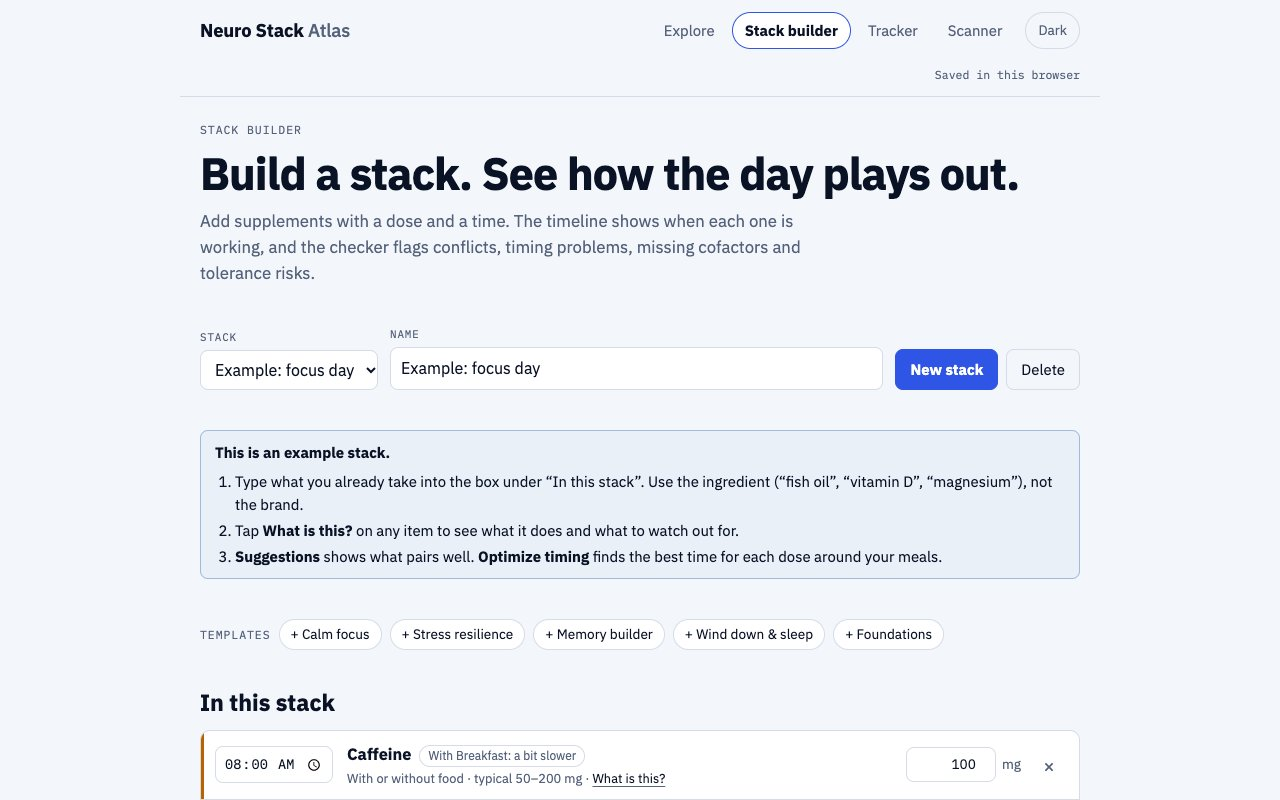
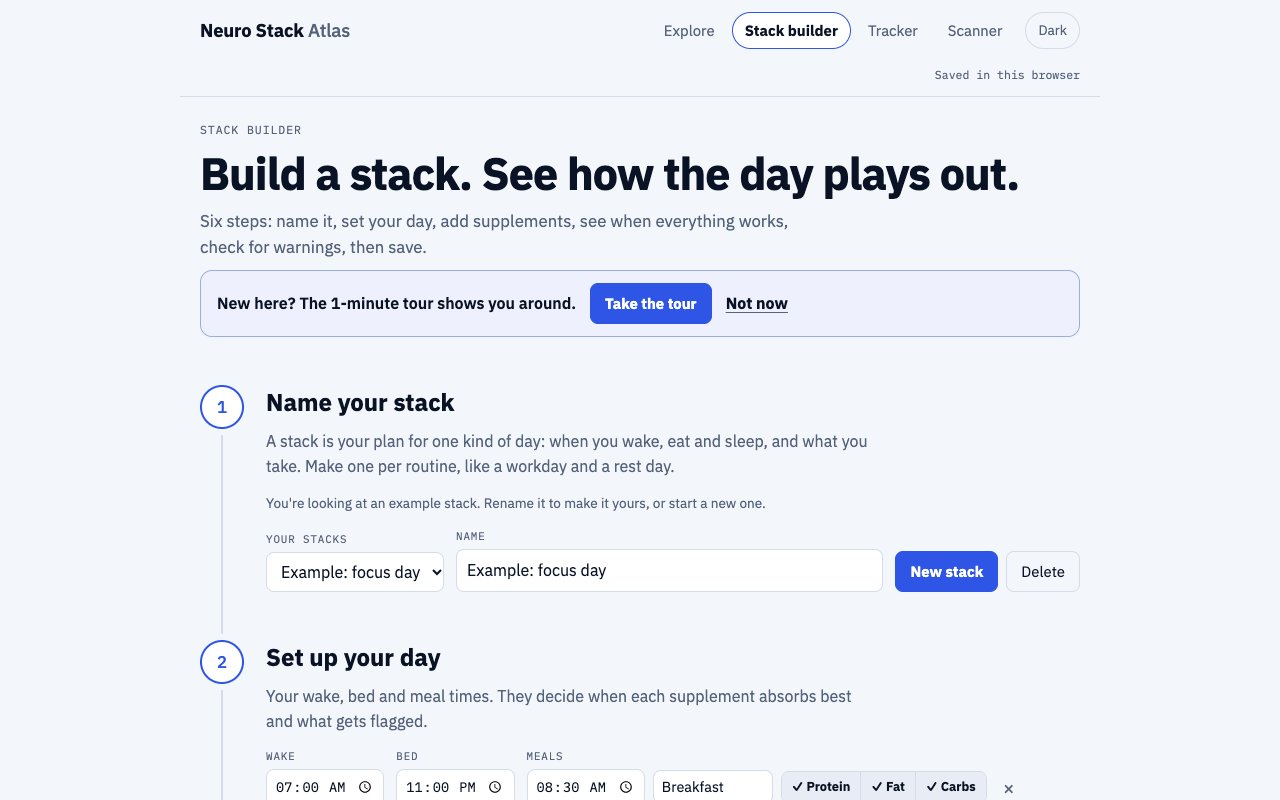
Add handoff notes for the next Claude session; refresh README Stack builder image
HANDOFF.md covers how Eric works, where everything lives, how publishing
works, how the code is organized, the review tools, open threads, and the
DRAFT wording still waiting for review. Not served on the live site.

diff --git a/HANDOFF.md b/HANDOFF.md
@@ -1,0 +1,66 @@
+# Handoff: Neuro Stack Atlas ("Mind" pillar)
+
+For a new Claude instance picking this up. Read this first, then `README.md` and `content/README.md`.
+
+## The person
+- **Eric**, founder. Doesn't write code; directs and reviews. GitHub: `EL9995`.
+- Explain in plain English. After each piece of work: **3–5 bullets** on what changed and how to check it.
+- **Show screenshots before committing.** Nothing gets committed until he approves.
+- **Ask before deleting anything or changing how something looks or behaves.**
+- **Never change scientific content or wording unless asked.** New wording goes in `content/` files and is marked `// DRAFT`; list every new factual claim for his review. Check new claims against the site's own data first (e.g. `content/timing-and-safety.js`).
+- **Desktop first.** Mobile pass comes later.
+- Umbrella vision: **Mind · Body · Food**. This repo is *Mind* (neurotransmitters, nootropics). Other Claude instances are building Supplement Transparency (CoAs, tier list) and Food Recalls/Transparency in parallel.
+
+## Where things are
+- Live site: https://el9995.github.io/neuro-stack-atlas/
+- Repo: https://github.com/EL9995/neuro-stack-atlas (public)
+- Local folder: `~/Documents/neuro-stack-atlas`
+- Run locally: `python3 -m http.server 8003` in the folder, open http://localhost:8003. The original one-file prototype is in `baseline/` (serve that folder on 8001 for before/after).
+- Machine: Python 3.9 and Google Chrome only. **No Node, no Homebrew, no `gh` CLI.** zsh: avoid `echo ====` (zsh treats `=word` specially).
+
+## Publishing
+- Commits are authored `Eric <337937552+EL9995@users.noreply.github.com>` (already set in the repo's git config). End commit messages with the Co-Authored-By line from your system instructions.
+- **Eric pushes from GitHub Desktop ("Push origin").** The command-line git here has no GitHub credentials, so don't try to push.
+- GitHub Pages runs from a **GitHub Actions workflow** (`.github/workflows/pages.yml`) that publishes only the site files (index.html, favicon.svg, og-image.png, css/, js/, content/, food/). `baseline/`, `tools/`, `docs/` and `*.md` are not served. Pages Source must stay set to "GitHub Actions".
+- GitHub Pages caches files for 10 minutes; tell Eric to hard-refresh (Cmd+Shift+R) or use a private window. *Offered, not yet built:* version-stamping asset URLs at deploy time so reviews always see fresh files.
+
+## Current state (as of 2026-10-05)
+- **Two saves are committed but NOT pushed:** "Stack builder: numbered steps, click-through tours, browse by neurotransmitter" and "Stack builder step 6: save after reviewing warnings…". Under them sits a save made by the **Food instance**: "Add food recall check test page at /food/" (adds `food/index.html` and adds `food` to the publish workflow). Pushing publishes all three, including `/food/` going live. Eric was told and decides when to push.
+- **Uncommitted files from the Supplement Transparency instance live in this folder:** `demo/`, `pilot/` (magnesium pilot spreadsheet and data), `tools/pilot_magnesium.py`. Don't commit, move or delete them; ask Eric. Recommendation given: each project in its own repo, plus a hub page (the empty `Eric-Portfolio-` repo could become `EL9995.github.io`).
+- Also uncommitted: this `HANDOFF.md` and an updated `docs/images/stack-builder.jpg`. Commit them when Eric approves.
+
+## How the code is organized
+- Plain static site: `index.html` loads `css/*.css` and then classic `<script>`s in order: `content/*.js` (data and wording), then `js/*.js`. **Everything shares global scope; order in index.html matters.** No build step.
+- `content/`: all data and user-facing wording (supplements, pathways, enzymes, scene captions, landing page, stack builder text, safety tags). `content/README.md` maps "I want to change…" to files.
+- Router: `js/router.js` (hash routes: `""` home, `<nt>`, `<nt>.<supp>`, `<supp>`, `enzyme:<id>`, `stack`, `track`, `scan`). Scroll scenes are started at the end of `render()`, after the top bar has its final size.
+- **Scroll scenes** (sticky stage, scroll position → progress 0–1, SVG world plus HTML labels positioned from world coordinates):
+  - `js/scene-story.js`: home "What are neurotransmitters?" Ends at "The next cell fires" (`NS_END = .785` trims the old animation).
+  - `js/scene-protocol.js`: home "Start smart" (foundation / cycles / recovery).
+  - `js/scene-pathway.js`: the per-neurotransmitter assembly line. `psSetup(nt)` lays out from pathway data. Intro slides (heading, low/high cards) come first. Labels use level-of-detail by zoom. The end is "explore mode": the chain is clickable with info cards. Height is set so every scene scrolls the same distance per caption (`psHeight`).
+  - **Gotcha:** measure the stage *after* setting `--chrome-h` (it resizes the stage), or HTML labels drift off the SVG.
+- `js/pages.js`: neurotransmitter page (scene, then three supplement blocks: Precursors / Cofactors / Modulators) and supplement pages. `js/enzymes.js` + `content/enzymes.js`: 10 enzyme pages (reached from scene info cards).
+- Safety tags (`js/helpers.js`): "Use caution" (tier `caution`, 5 supplements) and "Serious interactions" (any `major` interaction in data), with hover text from `content/tags.js`. "Deep cut" labels were removed.
+- **Stack builder** (`js/builder.js`, `content/stack-builder.js`, `css/builder-steps.css`, `js/tour.js`): six numbered steps: name, day, add (big search, browse by neurotransmitter, templates, items, suggestions), timeline, check, save. Tours are data-driven (`BUILDER_TEXT.tours`). Step 6 needs "I've read the warnings" when the check has serious or to-review items. Any edit clears `savedAt` (sets `wasSaved`). The **Tracker only shows the dose checklist for saved stacks**.
+- **Tracker insights** (`js/tracker-insights.js`): descriptive only, no causal wording. "On days you logged X, you rated Y higher (a vs b)". Needs 10+ logged days (ratings + doses), 3+ days with and without. The low-mood safety message (with 988) must stay word for word.
+- Scanner is frozen (basic paste mode off claude.ai). Account sync is paused (data stays in localStorage).
+
+## Review tooling (`tools/`)
+- `shoot.py <url> <dir>`: the fixed screenshot set at desktop and phone, frozen clock, no cache, fresh port each run. Saves `dom.json` for content diffs.
+- `make_compare.py`: builds `screenshots/compare.html` (before | after | changed pixels). Send Eric http://localhost:8003/screenshots/compare.html.
+- `domdiff.py`: content comparison (masks the timer-animated scene).
+- `test_explore.py <nt>`: click-through of a neurotransmitter page. `test_builder.py`: Stack builder tours, browse, add, search, save, Tracker gate.
+- `readme_images.py`: re-takes `docs/images/*` and the GIF (the GIF is encoded in-browser; no image libraries needed).
+- `screenshots/` is git-ignored. If screenshots look stale, check for a leftover headless Chrome (`ps aux | grep headless`).
+
+## Backlog / open threads
+1. Version-stamp assets on deploy (cache-busting). Offered.
+2. Mobile pass (scenes cramped, title card wraps).
+3. Logo: concepts A–G in `tools/logo-concepts.html`; Eric hasn't picked one ("not vibing yet"). The favicon is a placeholder.
+4. Tracker walkthrough/tour; Stack builder: collapse finished steps for returning users.
+5. The header status text "Saved in this browser" may be confused with step 6 "Save stack". Consider "Draft kept in this browser".
+6. Add enzymes to search; maybe make enzyme labels in the scene link to enzyme pages.
+7. Reflex games to measure stack effects (priority 3 originally).
+8. Hub page for Mind · Body · Food.
+
+## DRAFT wording awaiting Eric's review
+`content/landing-page.js`, `content/scene-captions.js` (incl. PROTOCOL_SCENE, explore labels), `content/enzymes.js` (all 10 pages; key claims listed in the conversation: TH feedback inhibition, TPH not saturated / ~90% gut serotonin, AADC + carbidopa, PKU, GAD + B6 seizures, AChE + huperzine/donepezil, ~half of choline recycled), `content/tags.js`, `content/stack-builder.js` (meal tour lines on fat/protein/carb snack).
